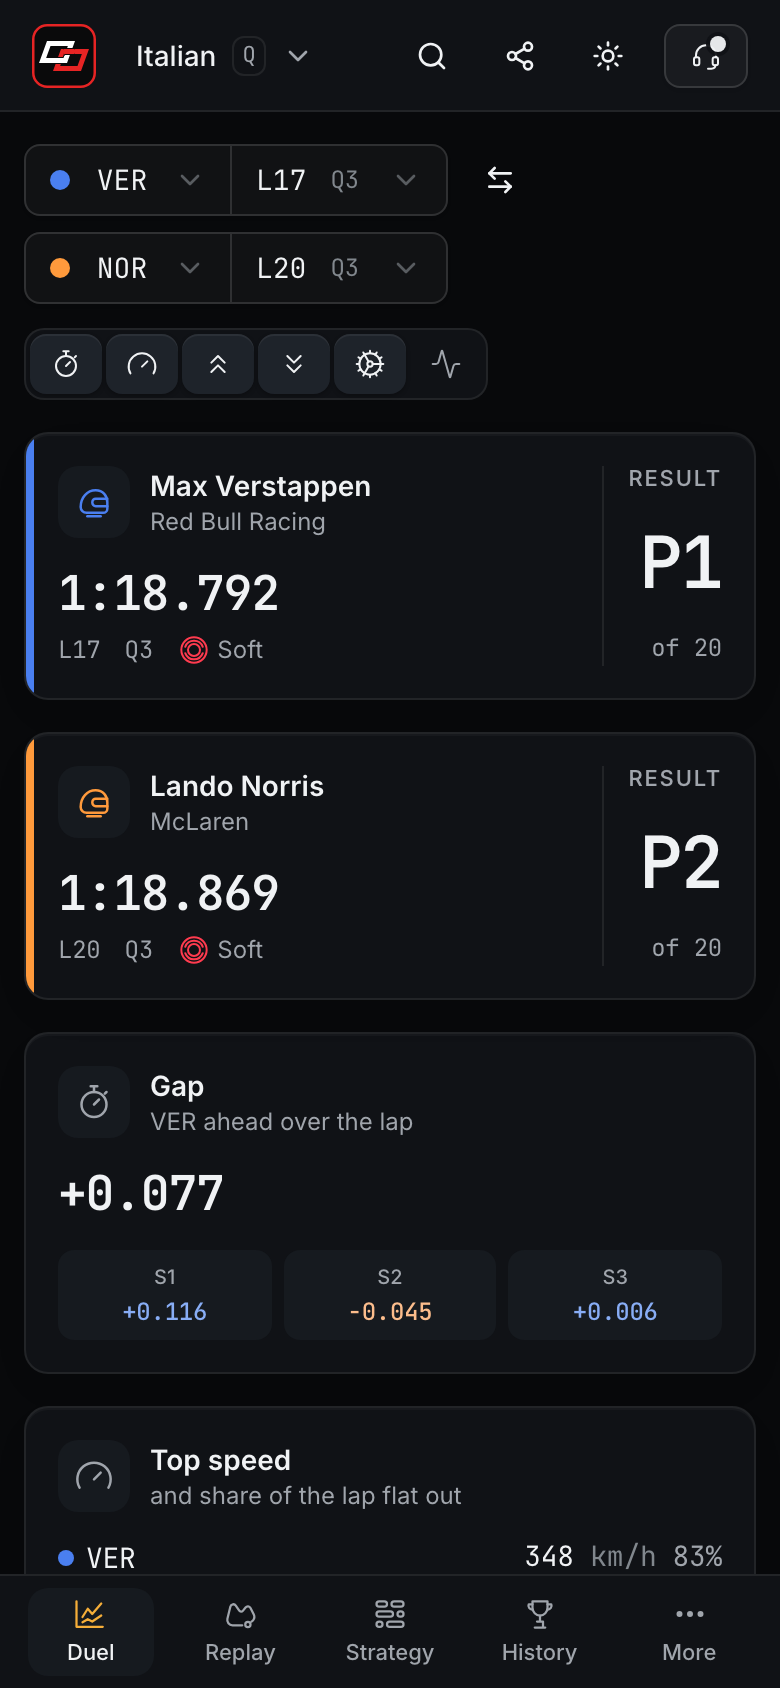
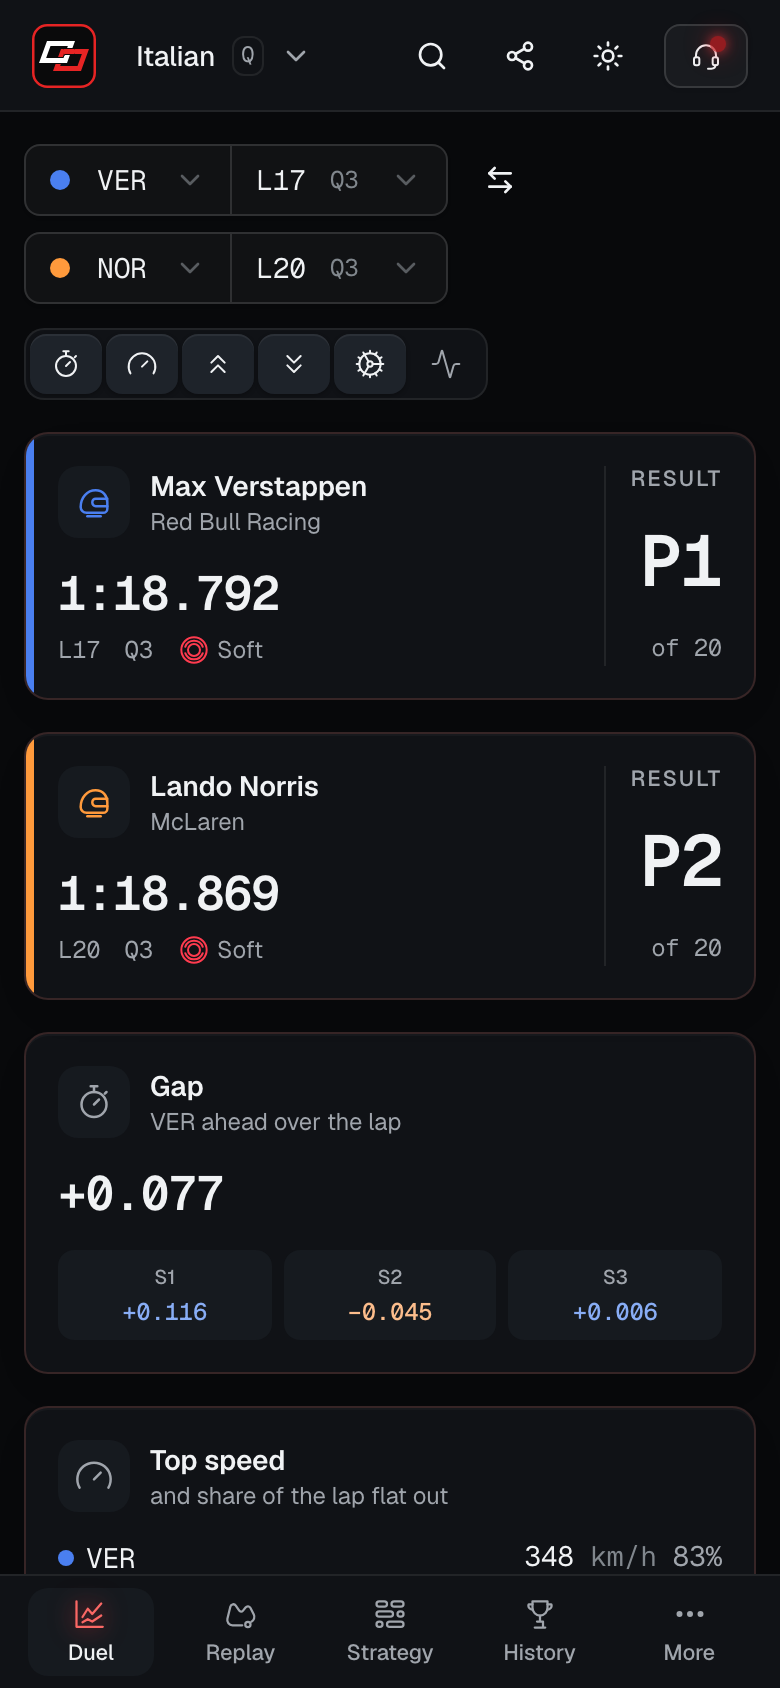
chore: add stylelint, refresh the readme and screenshots
- Stylelint (standard config, taught Tailwind v4's at-rules) runs in
  npm run check, CI and the pre-commit hook
- README rewritten: the live site, the two data sets, WebMCP set-up,
  stack and layout; screenshots re-captured in the current design

diff --git a/README.md b/README.md
@@ -7,40 +7,58 @@
 
 <p align="center">
   <strong>Formula 1 analysis you can ask in plain English, and an AI agent can drive.</strong><br>
-  Lap duels, race replays, strategy, and every Grand Prix weekend since 1950. Free, open source, no account.
+  Lap duels, race replays, strategy, and every Grand Prix since 1950. Free, open source, no account.
+</p>
+
+<p align="center">
+  <a href="https://unboxbox.com"><strong>unboxbox.com</strong></a>
 </p>
 
 <p align="center">
   <a href="https://github.com/SunTribe1/unbox-box/actions/workflows/ci.yml"><img alt="CI" src="https://github.com/SunTribe1/unbox-box/actions/workflows/ci.yml/badge.svg"></a>
+  <a href="https://github.com/SunTribe1/unbox-box/actions/workflows/codeql.yml"><img alt="CodeQL" src="https://github.com/SunTribe1/unbox-box/actions/workflows/codeql.yml/badge.svg"></a>
   <a href="LICENSE"><img alt="MIT licence" src="https://img.shields.io/badge/licence-MIT-e62424"></a>
   <img alt="Node 22+" src="https://img.shields.io/badge/node-22%2B-0a0a0b">
   <img alt="WCAG 2.1 AA" src="https://img.shields.io/badge/accessibility-WCAG%202.1%20AA-0a0a0b">
   <a href="CONTRIBUTING.md"><img alt="PRs welcome" src="https://img.shields.io/badge/PRs-welcome-e62424"></a>
 </p>
 
-> Unofficial, non-commercial fan project. Not associated in any way with the Formula 1 companies.
+> A hobby project, built and looked after by a Formula 1 fan in their spare time. Unofficial and
+> non-commercial: not associated in any way with the Formula 1 companies.
 
 ![Lap Duel: two qualifying laps compared trace by trace](docs/screenshots/lap-duel.png)
 
 ## Try asking
 
-- _Where did Norris lose time to Verstappen?_
+- _Where did Piastri lose time to Norris?_
 - _Leclerc vs Hamilton at Ascari_
-- _Who was fastest in sector 2?_
+- _Who was leading on lap 30?_
 - _The 2021 title fight_ · _Most wins in the 90s_ · _Tell me about Jim Clark_
 
-The built-in command engine answers these instantly, offline, with no API key. Browsers with
-an AI agent that supports **WebMCP** can call the same 27 tools directly.
+The built-in Race Engineer answers these instantly in your browser: no account, no API key, and
+it works offline. Browsers with an AI agent that supports **WebMCP** can call the same 27 tools
+directly, and you watch the page change as the agent works.
+
+## Two data sets
+
+| Data                    | Covers                         | What it is                                                                                          | Powers                                                                 |
+| ----------------------- | ------------------------------ | --------------------------------------------------------------------------------------------------- | ---------------------------------------------------------------------- |
+| **Telemetry**           | 2023 onwards, every session    | Speed, throttle, brake, gear, RPM and car positions every few metres; laps, pit stops, race control | Lap Duel, Race Replay, Strategy Lab                                    |
+| **Results and history** | 1950 onwards, every Grand Prix | Results, grids, qualifying, standings, entry lists, pit stops, lap records, engines, tyres          | Race Archive, Record Book, Circuits, History, Engines & Tyres, Nations |
+
+So the 1988 Monaco Grand Prix is all there in the Race Archive, but two 1988 laps can't be
+compared trace by trace: car telemetry from that era was never published. New sessions arrive a
+few hours after they end, with no redeploy.
 
 ## What's inside
 
 | Section              | What it does                                                                                                       |
 | -------------------- | ------------------------------------------------------------------------------------------------------------------ |
 | **Lap Duel**         | Two laps trace by trace (speed, throttle, brake, gear, RPM), running gap, mini-sector map, corner-by-corner losses |
-| **Race Replay**      | Every car on the track map, live timing tower, race control, a followed-car HUD, pop-out tower                     |
-| **Strategy Lab**     | Stints, degradation, pit stops, a 500-run pit-stop simulator and an undercut check                                 |
-| **History Explorer** | Head-to-heads, and a profile for every driver and team since 1950 (teammates, cars, family)                        |
+| **Race Replay**      | Every car on the track map, live timing tower, race control, safety car periods, a followed-car HUD                |
+| **Strategy Lab**     | Stints, tyre degradation, pit stops, a 500-run pit-stop simulator and an undercut check                            |
 | **Race Archive**     | Every weekend since 1950: the title fight, calendar, entry list, and every session from practice to race           |
+| **History Explorer** | Head-to-heads, and a profile for every driver and team since 1950 (teammates, cars, family)                        |
 | **Circuits**         | Layouts with corners, past layouts, lap records, most successful drivers and teams                                 |
 | **Record Book**      | 20+ leaderboards with an era filter; closest finishes, biggest wins, best pit crews                                |
 | **Engines & Tyres**  | Every engine and tyre maker: wins by season, teams supplied, engines by era, the tyre wars                         |
@@ -50,18 +68,40 @@ an AI agent that supports **WebMCP** can call the same 27 tools directly.
 
 Everywhere: a clean, shareable link for every page (`/races/1988/3/qualifying/`,
 `/duel/2025-italian-grand-prix-q/LEC-16-vs-HAM-16/`), ⌘K search, keyboard shortcuts, dark and
-light themes, reduced motion, installable, works offline.
+light themes, reduced motion, installable, works offline. The landing page at
+[unboxbox.com](https://unboxbox.com) shows each view with real screen recordings, and enters the
+app behind a five-light start sequence that goes out once the data has loaded.
 
 <table>
   <tr>
-    <td><img src="docs/screenshots/race-replay.png" alt="Race Replay"></td>
-    <td><img src="docs/screenshots/strategy.png" alt="Strategy Lab"></td>
+    <td><img src="docs/screenshots/race-replay.png" alt="Race Replay: every car on the Monza map with the timing tower"></td>
+    <td><img src="docs/screenshots/strategy.png" alt="Strategy Lab: stints, degradation and the pit-stop simulator"></td>
   </tr>
   <tr>
-    <td><img src="docs/screenshots/race-archive.png" alt="Race Archive weekend page"></td>
-    <td><img src="docs/screenshots/record-book.png" alt="Record Book"></td>
+    <td><img src="docs/screenshots/race-archive.png" alt="Race Archive: the 1988 Detroit Grand Prix results"></td>
+    <td><img src="docs/screenshots/record-book.png" alt="Record Book leaderboards"></td>
+  </tr>
+  <tr>
+    <td><img src="docs/screenshots/circuits.png" alt="Circuits: every track with its outline"></td>
+    <td align="center"><img src="docs/screenshots/phone.png" alt="Lap Duel on a phone" width="260"></td>
   </tr>
 </table>
+
+## Let your AI drive it (WebMCP)
+
+[WebMCP](https://github.com/webmachinelearning/webmcp) is a proposed web standard that lets an AI
+agent in your browser use a site's own tools instead of guessing at buttons.
+
+1. Use Chrome 146 or newer and turn on `chrome://flags/#enable-webmcp-testing`, then relaunch.
+2. Open [unboxbox.com](https://unboxbox.com). The Race Engineer header shows WebMCP as connected once the
+   tools are registered with `document.modelContext`.
+3. Ask your browser agent something like _"compare Norris and Piastri's qualifying laps"_. Each
+   call it makes is listed in the Race Engineer panel, and the page changes as if you had clicked.
+
+Every call is validated against its Zod schema before it runs. Some tools only read data; the rest
+change what is on screen, and nothing else. The questions go to your own agent, never to us: there
+is no server. Site owners can switch WebMCP on for every Chrome visitor with an origin-trial token
+(`NEXT_PUBLIC_WEBMCP_ORIGIN_TRIAL`).
 
 ## Quick start
 
@@ -70,20 +110,19 @@ Requires Node 22+ ([uv](https://docs.astral.sh/uv/) only for rebuilding data).
 ```bash
 git clone https://github.com/SunTribe1/unbox-box.git
 cd unbox-box
-npm install
-npm run dev            # http://localhost:3000, with bundled Monza 2025 demo data
+npm install            # also installs the Git hooks
+npm run dev            # http://localhost:3000, with bundled 2025 Italian GP demo data
 ```
 
-The full archive (every session since 2023) is served from a Hugging Face dataset; point
-`NEXT_PUBLIC_DATA_BASE` at it, or build your own with `npm run data:sync` (see
-[pipeline/README.md](pipeline/README.md)). All settings are in
-[apps/web/.env.example](apps/web/.env.example).
+The full data lives in a public Hugging Face dataset. Point `NEXT_PUBLIC_DATA_BASE` at it, or
+build your own with `npm run data:sync` (see [pipeline/README.md](pipeline/README.md)). Every
+setting is documented in [apps/web/.env.example](apps/web/.env.example).
 
 ## Deploy
 
-It's a static site, free to host. [docs/deploy.md](docs/deploy.md) covers Vercel (root
-directory `apps/web`, three optional environment variables), Netlify, Cloudflare Pages, the
-Hugging Face data set-up and the GitHub repository settings.
+It's a static site, free to host. [docs/deploy.md](docs/deploy.md) covers Vercel (root directory
+`apps/web`), Netlify and Cloudflare Pages, the Hugging Face data set-up, the scheduled data sync
+and the GitHub repository settings.
 
 ## How it works
 
@@ -91,38 +130,57 @@ Hugging Face data set-up and the GitHub repository settings.
 flowchart LR
   TI[TracingInsights<br/>telemetry 2023+] --> P[Python pipeline]
   DB[F1DB<br/>every race since 1950] --> P
-  P --> D[(Static JSON<br/>Hugging Face)]
+  P -->|scheduled GitHub Action| D[(Static JSON<br/>Hugging Face)]
   D --> W[Next.js static site]
   W --> R[Typed tool registry<br/>Zod schemas]
   R --> UI[Views and buttons]
-  R --> E[Command engine]
+  R --> E[Race Engineer]
   R --> M[WebMCP<br/>browser agents]
 ```
 
-- **No server.** The site is a static export; data is plain JSON on a CDN, validated with Zod
-  on load and cached for offline use.
-- **One tool registry.** Buttons, the command engine and browser agents call the same typed
+- **No server.** The site is a static export; data is plain JSON on a CDN, validated with Zod on
+  load and cached for offline use.
+- **Data that updates itself.** A scheduled GitHub Action builds each new session and publishes
+  it; the site reads the session list on every visit, so new races need no redeploy.
+- **One tool registry.** Buttons, the Race Engineer and browser agents call the same typed
   functions, so what an agent does is exactly what a click does.
-- **Real URLs on a static host.** One page per view; the host rewrites deeper paths to it and
-  the app reads the rest of the path, so every page has a clean link that survives a reload.
-- **Decisions are written down** in [docs/adr](docs/adr): static data, the tool registry,
-  lap-delta alignment, data hosting, security headers, archive files, feedback without a backend,
-  path URLs on a static host.
+- **Real URLs on a static host.** One page per view; the host rewrites deeper paths to it and the
+  app reads the rest of the path, so every page has a clean link that survives a reload.
+- **Decisions are written down** in [docs/adr](docs/adr): static data, the tool registry, lap-delta
+  alignment, data hosting, security headers, archive files, feedback without a backend, path URLs
+  on a static host.
 
-| Package           | Role                                                                          |
-| ----------------- | ----------------------------------------------------------------------------- |
-| `apps/web`        | Next.js 16 static export, React 19, Tailwind CSS v4, shadcn/ui, Motion, uPlot |
-| `packages/tools`  | Data schemas, analysis, the 27 tools, the command engine                      |
-| `packages/webmcp` | The only code that touches the WebMCP browser API                             |
-| `pipeline`        | Python: fetch → align → resample → write JSON                                 |
+### Stack
 
-In the app, **Help → For developers** documents the full stack, data flow, WebMCP set-up and
-every tool.
+| Layer    | Technology                                                                            |
+| -------- | ------------------------------------------------------------------------------------- |
+| App      | Next.js 16 (static export), React 19, TypeScript strict                               |
+| UI       | Tailwind CSS v4 design tokens, shadcn/ui on Radix UI, Motion, Geist and Geist Mono    |
+| Charts   | uPlot (telemetry), Recharts (seasons and stints), canvas and SVG (track maps)         |
+| State    | Zustand (mirrored to the URL), TanStack Query (data and cache), Zod (every data file) |
+| Pipeline | Python with NumPy; `uv` for environments                                              |
+| Hosting  | Vercel (site), Hugging Face (data), Cloudflare (DNS), Web3Forms (bug reports)         |
+
+### Repository layout
+
+```text
+apps/web            Next.js app: src/app (routes), src/features (one folder per view and the
+                    landing page), src/components (shared UI), src/lib (state, data, routes)
+apps/web/scripts    Build scripts: security headers and host rewrites, notices, screen recordings
+packages/tools      Data schemas, analysis, the 27 tools and the Race Engineer. No React
+packages/webmcp     The only code that touches the WebMCP browser API
+pipeline            Python data pipeline: sources, alignment, replays, history, publishing
+docs                Architecture decisions, brand guide, deployment guide, screenshots
+.github             CI, pull request checks, CodeQL, data sync, branch ruleset, templates
+```
+
+In the app, **Help → For developers** documents the stack, data flow, URL scheme, WebMCP set-up
+and every tool.
 
 ## Quality
 
 ```bash
-npm run check           # format, lint, types, spelling, dead code, unit tests
+npm run check           # format, lint (ESLint, Stylelint), types, spelling, dead code, unit tests
 npm run test:coverage   # unit tests with coverage gates
 npm run build && npm run test:e2e   # Playwright
 ```
@@ -130,8 +188,8 @@ npm run build && npm run test:e2e   # Playwright
 | Check      | Tool                                                                                                                                                                                                 |
 | ---------- | ---------------------------------------------------------------------------------------------------------------------------------------------------------------------------------------------------- |
 | Formatting | Prettier with the Tailwind class-order plugin                                                                                                                                                        |
-| Lint       | ESLint (Next.js rules for the app, typescript-eslint strict for packages)                                                                                                                            |
-| Types      | TypeScript strict, `noUncheckedIndexedAccess`                                                                                                                                                        |
+| Lint       | ESLint (Next.js rules and jsx-a11y for the app, typescript-eslint strict for packages); Stylelint for CSS                                                                                            |
+| Types      | TypeScript strict, `noUncheckedIndexedAccess` (and `exactOptionalPropertyTypes` in the packages)                                                                                                     |
 | Spelling   | CSpell, British English                                                                                                                                                                              |
 | Dead code  | knip: unused files, exports and dependencies                                                                                                                                                         |
 | Unit tests | Vitest with coverage gates (tools 85%, WebMCP 85%, web `lib/` 80%); React Testing Library for components                                                                                             |
@@ -145,8 +203,8 @@ npm run build && npm run test:e2e   # Playwright
 Contributions are welcome: bug fixes, features, data corrections, docs. `main` is protected:
 every change is a reviewed, squash-merged pull request with green CI. Start with
 [CONTRIBUTING.md](CONTRIBUTING.md), and look for issues labelled
-[good first issue](https://github.com/SunTribe1/unbox-box/labels/good%20first%20issue).
-Please read the [code of conduct](CODE_OF_CONDUCT.md), and report security problems privately
+[good first issue](https://github.com/SunTribe1/unbox-box/labels/good%20first%20issue). Please
+read the [code of conduct](CODE_OF_CONDUCT.md), and report security problems privately
 ([SECURITY.md](SECURITY.md)).
 
 ## Acknowledgements
@@ -155,22 +213,24 @@ Unbox Box stands on other people's open work. Thank you to:
 
 - **[F1DB](https://github.com/f1db/f1db)** by Marcel Overdijk and contributors: every World
   Championship weekend since 1950 (CC BY 4.0).
-- **[TracingInsights](https://github.com/TracingInsights)**: telemetry, laps and race control
-  for every session since 2023 (2023–2024 MIT, 2025–2026 Apache-2.0;
-  DOI [10.5281/zenodo.17312802](https://doi.org/10.5281/zenodo.17312802)).
+- **[TracingInsights](https://github.com/TracingInsights)**: telemetry, laps and race control for
+  every session since 2023 (2023–2024 MIT, 2025–2026 Apache-2.0; DOI
+  [10.5281/zenodo.17312802](https://doi.org/10.5281/zenodo.17312802)).
 - **[FastF1](https://github.com/theOehrly/Fast-F1)** by Philipp Schäfer and contributors (MIT),
   **[Jolpica-F1](https://github.com/jolpica/jolpica-f1)** (Apache-2.0) and
   **[MultiViewer](https://github.com/f1multiviewer)**, which TracingInsights builds on.
 - **[flag-icons](https://github.com/lipis/flag-icons)** by Panayiotis Lipiridis (MIT);
-  **Inter** and **JetBrains Mono** (SIL OFL 1.1); **Lucide** icons (ISC).
-- **Next.js, React, Tailwind CSS, shadcn/ui, Radix UI, Motion, uPlot, Recharts, TanStack
-  Query, Zustand, Zod** and the rest of the open-source libraries listed on the
+  **[Geist and Geist Mono](https://github.com/vercel/geist-font)** by Vercel (SIL OFL 1.1);
+  **[Lucide](https://github.com/lucide-icons/lucide)** icons (ISC).
+- **Next.js, React, Tailwind CSS, shadcn/ui, Radix UI, Motion, uPlot, Recharts, TanStack Query,
+  Zustand, Zod** and the rest of the open-source libraries listed on the
   [Credits page](apps/web/src/app/credits/credits.ts), with full texts in
   [THIRD_PARTY_NOTICES.txt](apps/web/public/THIRD_PARTY_NOTICES.txt).
-- **GitHub**, **Hugging Face** and **Web3Forms** for free hosting and services.
+- **GitHub**, **Vercel**, **Hugging Face**, **Cloudflare** and **Web3Forms** for free hosting and
+  services.
 
-The app's own Credits page (`/credits/`) lists every data source, library, font, icon set and
-service with its licence and the changes we made.
+The site's [Credits page](https://unboxbox.com/credits/) lists every data source, library, font,
+icon set and service with its licence and the changes we made.
 
 ## Licence
 
@@ -178,6 +238,26 @@ Code: [MIT](LICENSE). Data files keep their sources' licences (CC BY 4.0, MIT, A
 [DATA_LICENSE.md](apps/web/public/data/DATA_LICENSE.md). The Unbox Box name and logo are the
 project's own.
 
-F1, FORMULA ONE, FORMULA 1, FIA FORMULA ONE WORLD CHAMPIONSHIP, GRAND PRIX and related marks are
-trademarks of Formula One Licensing B.V. Unbox Box uses no official photographs, logos or
-footage.
+## Disclaimer
+
+### Unofficial
+
+Unbox Box is unofficial and is not associated in any way with the Formula 1 companies. It is not endorsed or sponsored by Formula One World Championship Limited, Formula One Management, Formula One Licensing B.V., the FIA or any team.
+
+F1, FORMULA ONE, FORMULA 1, FIA FORMULA ONE WORLD CHAMPIONSHIP, GRAND PRIX and related marks are trade marks of Formula One Licensing B.V.
+
+This is a free, non-commercial, fan-made application. It has no advertising, sponsorship or affiliate links.
+
+### Trade marks
+
+All product and company names are trade marks™ or registered® trade marks of their respective holders. Use of them does not imply any affiliation with or endorsement by them.
+
+“Formula 1”, “F1”, “F1 TV”, “FIA”, “Alpine”, “Aston Martin”, “Audi”, “Cadillac”, “Ferrari”, “Haas F1 Team”, “McLaren”, “Mercedes”, “Racing Bulls”, “Red Bull”, “Red Bull Racing”, “Sauber”, “Williams”, “Honda”, “Renault”, “Ford”, “Pirelli”, and every other team, constructor, engine, tyre and sponsor name, past or present, are trade marks of their respective owners. They are not affiliated with, and do not sponsor or endorse, Unbox Box or its contributors.
+
+Names of drivers, teams, circuits and events are used only to identify them, as facts. Team colours are our own approximations for telling cars apart on charts. Unbox Box uses no official photographs, logos, liveries, broadcast footage or audio.
+
+### Data
+
+Timing and telemetry come from TracingInsights (MIT for 2023–2024, Apache-2.0 from 2025), and results since 1950 from F1DB (CC BY 4.0), each used under its open licence, converted and resampled by us. TracingInsights, F1DB, FastF1 and the other projects credited here are independent and do not endorse Unbox Box.
+
+Figures are provided as they are, without warranty, and may contain errors from the sources or from our processing.

diff --git a/CONTRIBUTING.md b/CONTRIBUTING.md
@@ -90,7 +90,7 @@ more detail.
 5. **Run what CI runs** before you push:
 
    ```bash
-   npm run check          # format, lint, types, spelling, dead code, unit tests
+   npm run check          # format, lint (ESLint, Stylelint), types, spelling, dead code, unit tests
    npm run test:coverage  # coverage gates
    npm run build && npm run test:e2e
    cd pipeline && uv run ruff check . && uv run ruff format --check . && uv run pytest -q
